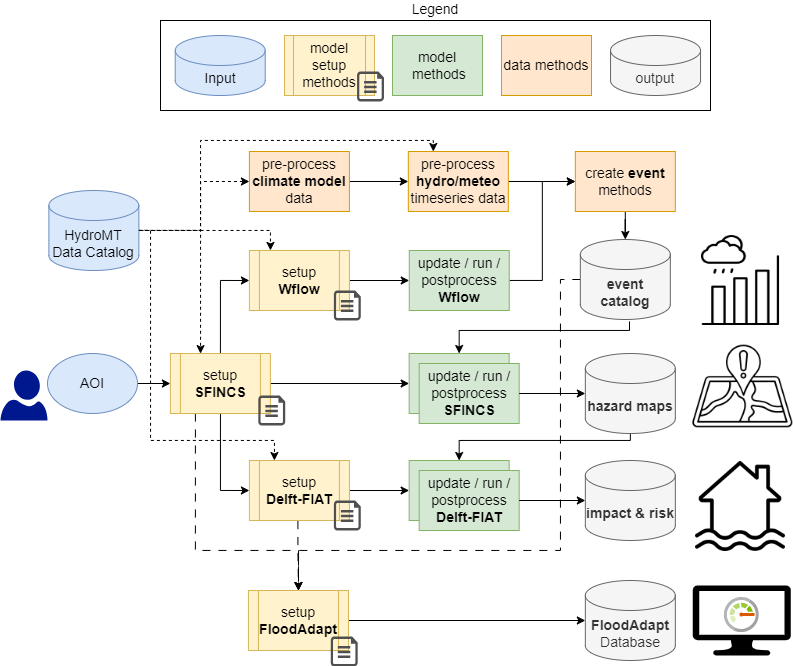
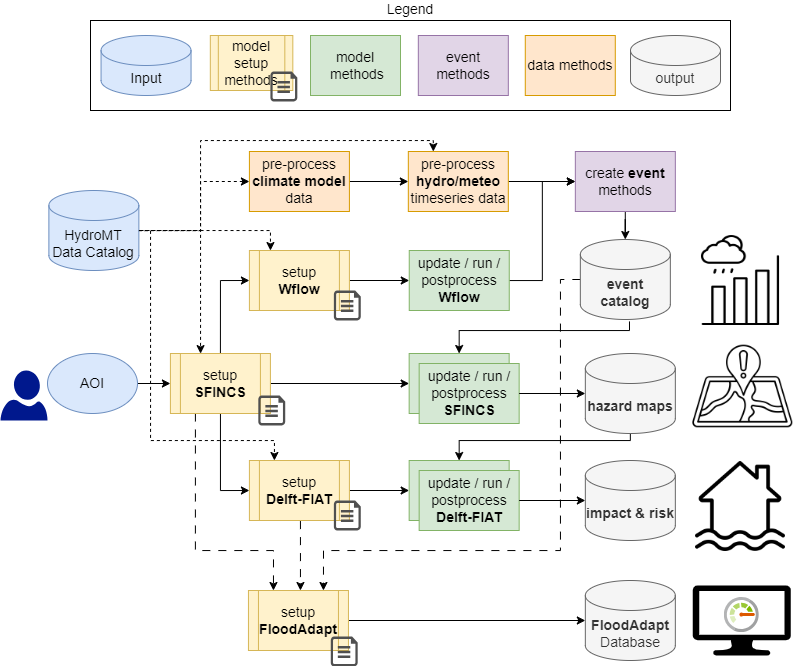
add rio case study to docs

diff --git a/docs/run_notebooks.py b/docs/run_notebooks.py
@@ -8,13 +8,13 @@ import papermill as pm
 
 
 if __name__ == "__main__":
-    overwrite = True
+    overwrite = False
     current_dir = Path(__file__).parent
     examples_dir = current_dir / "../examples"
+    cases_dir = current_dir / "../cases"
     output_dir = Path(current_dir, "_examples")
     output_dir.mkdir(exist_ok=True)
-    os.chdir(examples_dir)
-    for nb in Path(examples_dir).glob("*.ipynb"):
+    for nb in list(Path(examples_dir).glob("*.ipynb")) + list(Path(cases_dir).glob("**/*.ipynb")):
         nb_name = nb.name
         if Path(output_dir, nb_name).exists():
             if overwrite is False:
@@ -22,5 +22,6 @@ if __name__ == "__main__":
                 continue
             else:
                 Path(output_dir, nb_name).unlink()
+        os.chdir(Path(nb).parent)
         print(f"Running {nb_name}")
         pm.execute_notebook(nb, output_path=output_dir / nb_name)

diff --git a/hydroflows/methods/fiat/fiat_visualize.py b/hydroflows/methods/fiat/fiat_visualize.py
@@ -111,9 +111,9 @@ class FIATVisualize(Method):
 
     See Also
     --------
-    :py:class:`fiat_visualize Input <~hydroflows.methods.fiat.fiat_visualize.Input>`,
-    :py:class:`fiat_visualize Output <~hydroflows.methods.fiat.fiat_visualize.Output>`,
-    :py:class:`fiat_visualize Params <~hydroflows.methods.fiat.fiat_visualize.Params>`,
+    :py:class:`fiat_visualize Input <hydroflows.methods.fiat.fiat_visualize.Input>`
+    :py:class:`fiat_visualize Output <hydroflows.methods.fiat.fiat_visualize.Output>`
+    :py:class:`fiat_visualize Params <hydroflows.methods.fiat.fiat_visualize.Params>`
     """
 
     name: str = "fiat_visualize"

diff --git a/hydroflows/methods/fiat/fiat_build.py b/hydroflows/methods/fiat/fiat_build.py
@@ -113,9 +113,9 @@ class FIATBuild(Method):
 
     See Also
     --------
-    :py:class:`fiat_build Input <~hydroflows.methods.fiat.fiat_build.Input>`,
-    :py:class:`fiat_build Output <~hydroflows.methods.fiat.fiat_build.Output>`,
-    :py:class:`fiat_build Params <~hydroflows.methods.fiat.fiat_build.Params>`,
+    :py:class:`fiat_build Input <~hydroflows.methods.fiat.fiat_build.Input>`
+    :py:class:`fiat_build Output <~hydroflows.methods.fiat.fiat_build.Output>`
+    :py:class:`fiat_build Params <~hydroflows.methods.fiat.fiat_build.Params>`
     :py:class:`hydromt_fiat.fiat.FIATModel`
     """
 

diff --git a/hydroflows/methods/flood_adapt/prep_sfincs_models.py b/hydroflows/methods/flood_adapt/prep_sfincs_models.py
@@ -8,7 +8,7 @@ from hydromt_sfincs import SfincsModel
 from hydroflows.workflow.method import Method
 from hydroflows.workflow.method_parameters import Parameters
 
-__all__ = ["PrepSfincsModels"]
+__all__ = ["PrepSfincsModels", "Input", "Output", "Params"]
 
 
 class Input(Parameters):

diff --git a/docs/cases/rio_case.rst b/docs/cases/rio_case.rst
@@ -1,0 +1,47 @@
+Rio de Janeiro case study
+=========================
+
+The Rio de Janeiro case study is being developed as part of the HE-UP2030_ project.
+The text below is based on a project blog post which can be found `here <https://up2030-he.eu/2024/12/23/rapid-and-continuous-flood-risk-assessment-and-adaptation-planning-for-rio-de-janeiro/>`_.
+
+Challenge
+---------
+
+Floods in urban areas highlight the vulnerability of cities and the complex challenges they face in managing growth and development.
+As urbanization accelerates, the impact of floods on densely populated areas becomes more pronounced, with development often pushing into low-lying, flood-prone areas.
+Climate change exacerbates these issues through increased precipitation and sea level rise, leading to more severe and frequent flooding.
+
+The Acari River basin (see Figure below) in Rio de Janeiro is a highly populated and flood-prone region, and heavy floods have impacted it in the past.
+It is characterized by medium and low-income occupations and several non-planned urban developments.
+The area is particularly vulnerable to flooding due to its low-lying position, rapid urbanization, and inadequate drainage systems.
+In past floods, such as the significant event in 2010, tens of thousands of people were affected. During the most recent flood in January 2024, 78000 people were affected.
+These floods cause widespread damage to homes, infrastructure, and public services, with several neighborhoods in the Acari River basin being submerged.
+Damage estimates may range into the hundreds of millions of reais, though exact figures are unknown.
+The frequency of such floods has led to ongoing efforts by the city of Rio de Janeiro to improve drainage, build protective infrastructure, and reduce the impact on communities living near the river.
+However, challenges such as rapid urbanization and climate-related heavy rains continue to make the region vulnerable.
+
+.. figure:: ../_static/acari-min.png
+    :alt: Acari River Basin
+    :align: center
+
+Application
+-----------
+
+Within UP2030, Deltares works together with Rio-Águas, the municipal office for urban drainage, to combat these challenges.
+Rio-Águas is responsible for planning, implementing, and maintaining effective drainage systems.
+While the city possesses high-quality data, there is currently a lack of flood models to assess and predict flood risks in specific areas.
+
+The area of interest is the Acari River Basin, for which Rio-Águas is in the process of developing a Drainage Masterplan that can guide future drainage interventions, optimize resources, and ensure the city's resilience to flood risks.
+The main practical aim of this study was therefore to assist Rio-Águas in developing the Drainage Masterplan.
+From the perspective of UP2030, the scientific aim is to investigate the usefulness of global data sets in enhancing local flood risk assessments, considering their advantages and limitations. This will provide insights into how such data can complement local knowledge and decision-making in flood management.
+
+Flood risk assessment
+----------------------
+
+The flood risk assessment based on `HydroFlows` is fully reproducible and can be found `in this example notebook <../_examples/rio_risk_climate_strategies.ipynb>`_
+The assessment is based on a combination of global data sets and local data.
+
+.. toctree::
+   :maxdepth: 1
+
+   ../_examples/rio_risk_climate_strategies.ipynb

diff --git a/docs/user_guide/method_library/intro.rst b/docs/user_guide/method_library/intro.rst
@@ -17,7 +17,7 @@ For guidance on combining these methods for flood risk analysis with HydroFlows,
 HydroFlows methods can be categorized into three main groups, which are further discussed in subsections:
 
 1. **Data Methods** (orange blocks in Figure) - Handle data retrieval, pre- and postprocessing for various data types.
-2. **Event Methods** (blue blocks in Figure) - Generate historical, future, and design events for coastal, rainfall, and discharge data to be used as input for the hazard model.
+2. **Event Methods** (purple blocks in Figure) - Generate historical, future, and design events for coastal, rainfall, and discharge data to be used as input for the hazard model.
 3. **Model-Related Methods** (yellow and green blocks in Figure) - Building (model setup methods; yellow blocks), updating, running, and postprocessing (model methods; green blocks) of the supported models (i.e., SFINCS, Wflow, Delft-FIAT, FloodAdapt).
 
 

diff --git a/docs/getting_started/intro.rst b/docs/getting_started/intro.rst
@@ -75,9 +75,9 @@ This will install all dependencies and create an editable installation of HydroF
    pixi install -e full        # full dev py3.11 installation from the lock file
 
    # optional commands (see "pixi run x" for more options)
-   pixi run install-pre-commit # install pre-commit hooks
-   pixi run html-docs          # build the documentation
-   pixi run tests              # run all tests
+   pixi run -e full install-pre-commit # install pre-commit hooks
+   pixi run -e full tests              # run all tests
+   pixi run -e full html-docs          # build the documentation
 
 
 To update the lock file and your environment after changes to the dependencies, run:

diff --git a/docs/links.rst b/docs/links.rst
@@ -6,7 +6,7 @@
 .. _Delft-FIAT: https://deltares.github.io/Delft-FIAT/
 .. _HydroMT: https://deltares.github.io/hydromt/
 .. _FloodAdapt: https://deltares-research.github.io/FloodAdapt/
-.. _HE-UP2030 project: https://up2030-he.eu/
+.. _HE-UP2030: https://up2030-he.eu/
 .. _pixi: https://pixi.sh/latest/
 .. _mamba: https://mamba.readthedocs.io/en/latest/
 .. _conda: https://docs.conda.io/en/latest/

diff --git a/docs/cases/intro.rst b/docs/cases/intro.rst
@@ -1,0 +1,13 @@
+Case studies
+============
+
+This section contains case studies that demonstrate how to use the `HydroFlows`.
+The case studies are based on real-world examples and are intended to provide
+a practical guide to using the `HydroFlows` for different applications.
+
+So far, the following case studies are available:
+
+.. toctree::
+   :maxdepth: 1
+
+   rio_case.rst

diff --git a/docs/index.rst b/docs/index.rst
@@ -8,5 +8,6 @@
 
    getting_started/intro.rst
    user_guide/intro.rst
+   cases/intro.rst
    dev_guide/intro.rst
    api/index.rst
